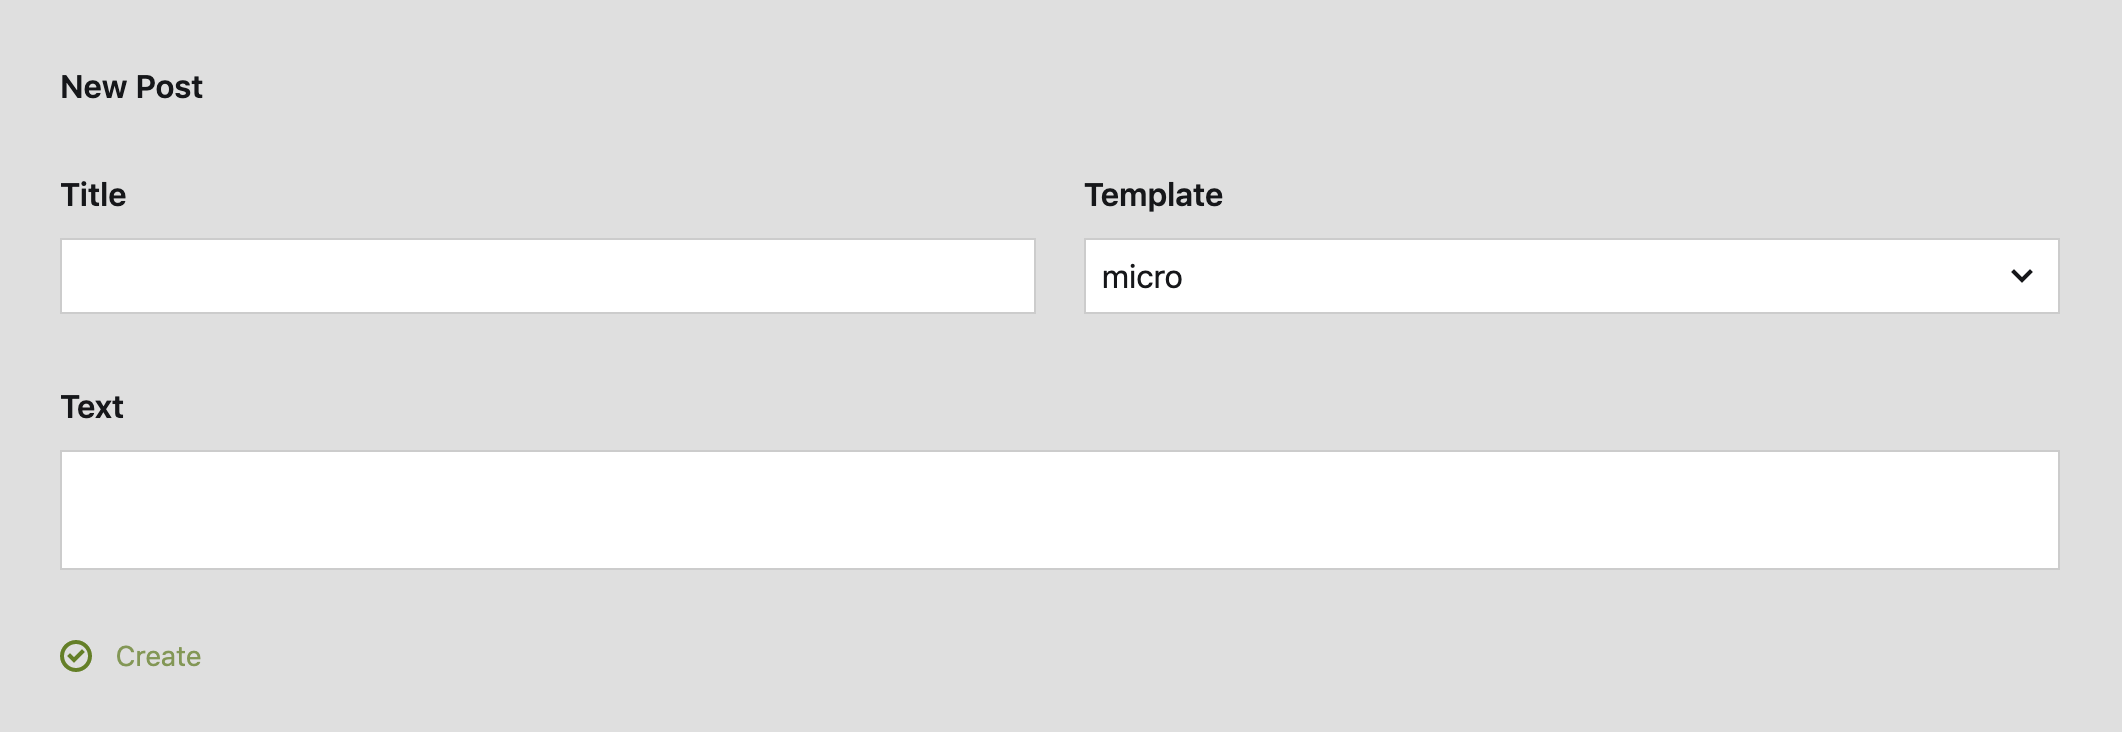
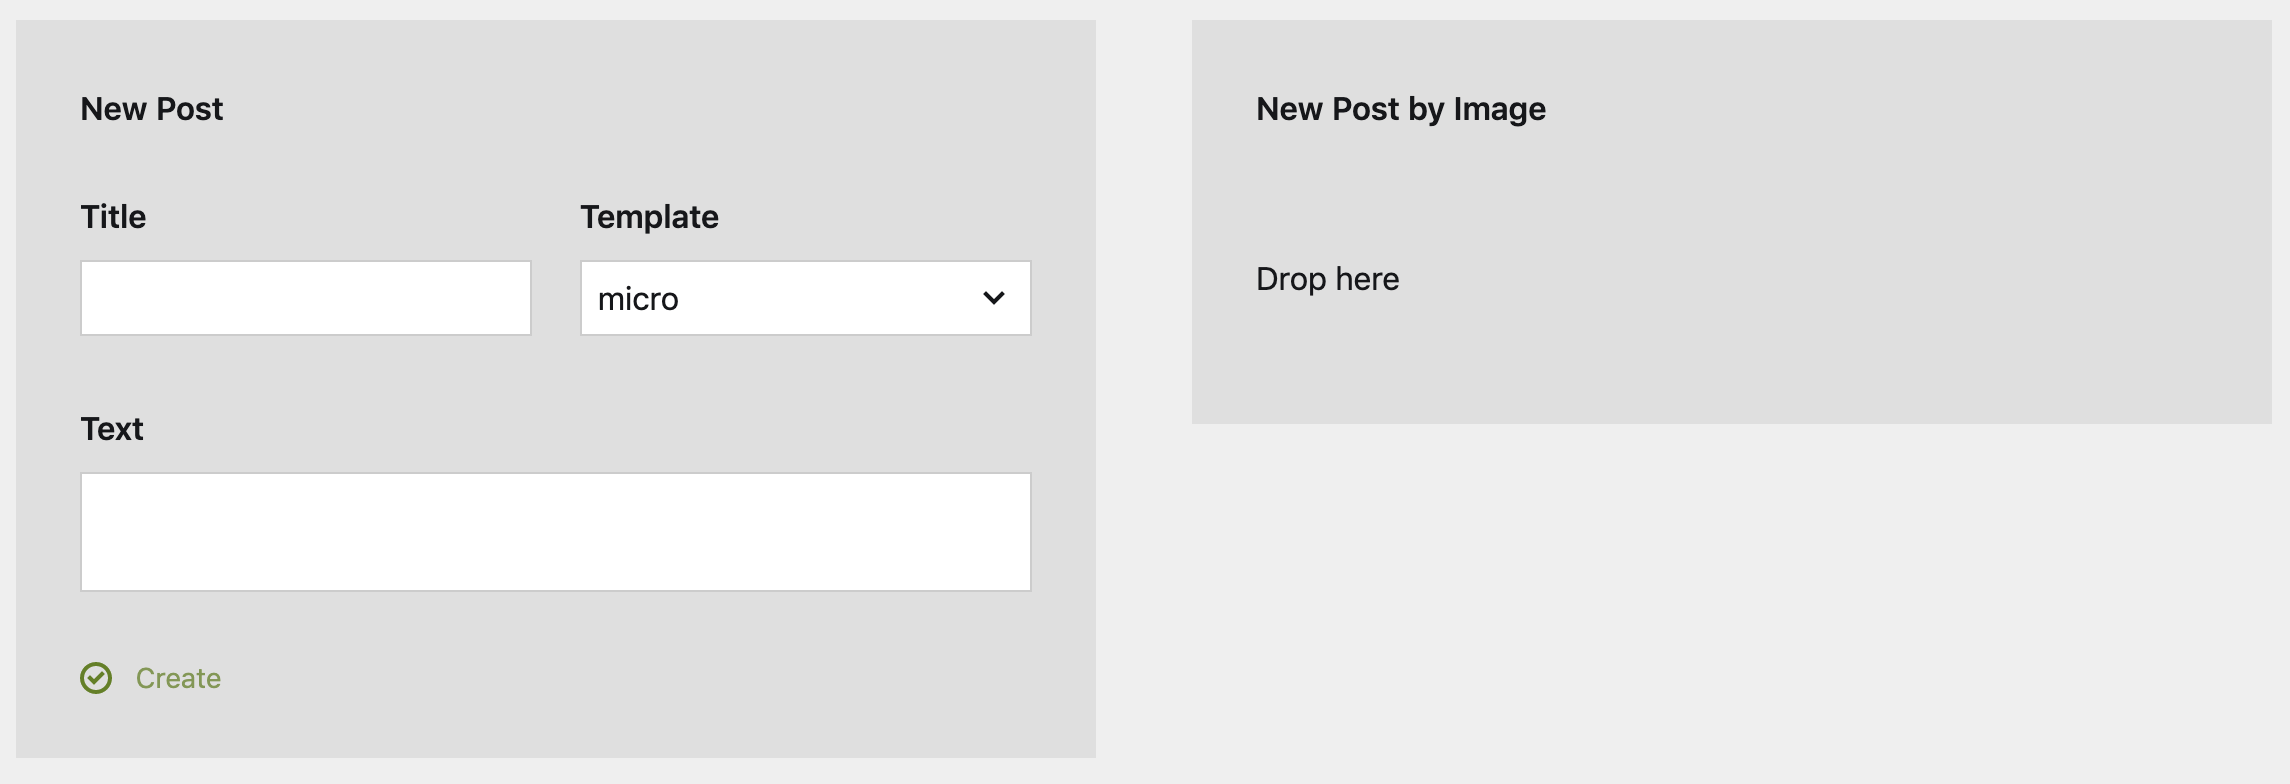
Update README

diff --git a/README.md b/README.md
@@ -1,6 +1,6 @@
 # Kirby Quick Add Plugin
 
-This plugin provides a new panel section that provides a form to quickly add a new child page to a pre defined
+This plugin provides a two panel section that provides a form to quickly add a new child page to a pre defined
 page structure. Initially it was build to quickly create new blog posts without having to navigate the page tree
 to the correct directory (e.g. `blog/posts/[current year]`).
 
@@ -28,12 +28,35 @@ sections:
       - long
 ```
 
-## Blueprint options
+or
+
+```
+sections:
+  quickAdd:
+    type: quickaddimage
+    headline: New Post
+    target: posts/[YEAR]
+    template: micro
+    text: Drop here
+    dragText: "(image:[FILENAME] size:big)"
+```
+
+(or combine both with a `colums` thingy)
+
+## Blueprint options (quickadd)
 
 - `headline`: Printed above the section
 - `target`: The path to the page the new one will be a child of. `[YEAR]` will be replaced with the current year (e.g. 2020).
 - `templates`: List of possible templates
 - `defaultTemplate`: Default template 
+
+## Blueprint options (quickaddimage)
+
+- `headline`: Printed above the section
+- `text`: Printed in the drop zone
+- `dragText`: The KirbyTag that will be inserted into the post for every file
+- `target`: The path to the page the new one will be a child of. `[YEAR]` will be replaced with the current year (e.g. 2020).
+- `template`: Default template for the created post
 
 
 ## License
